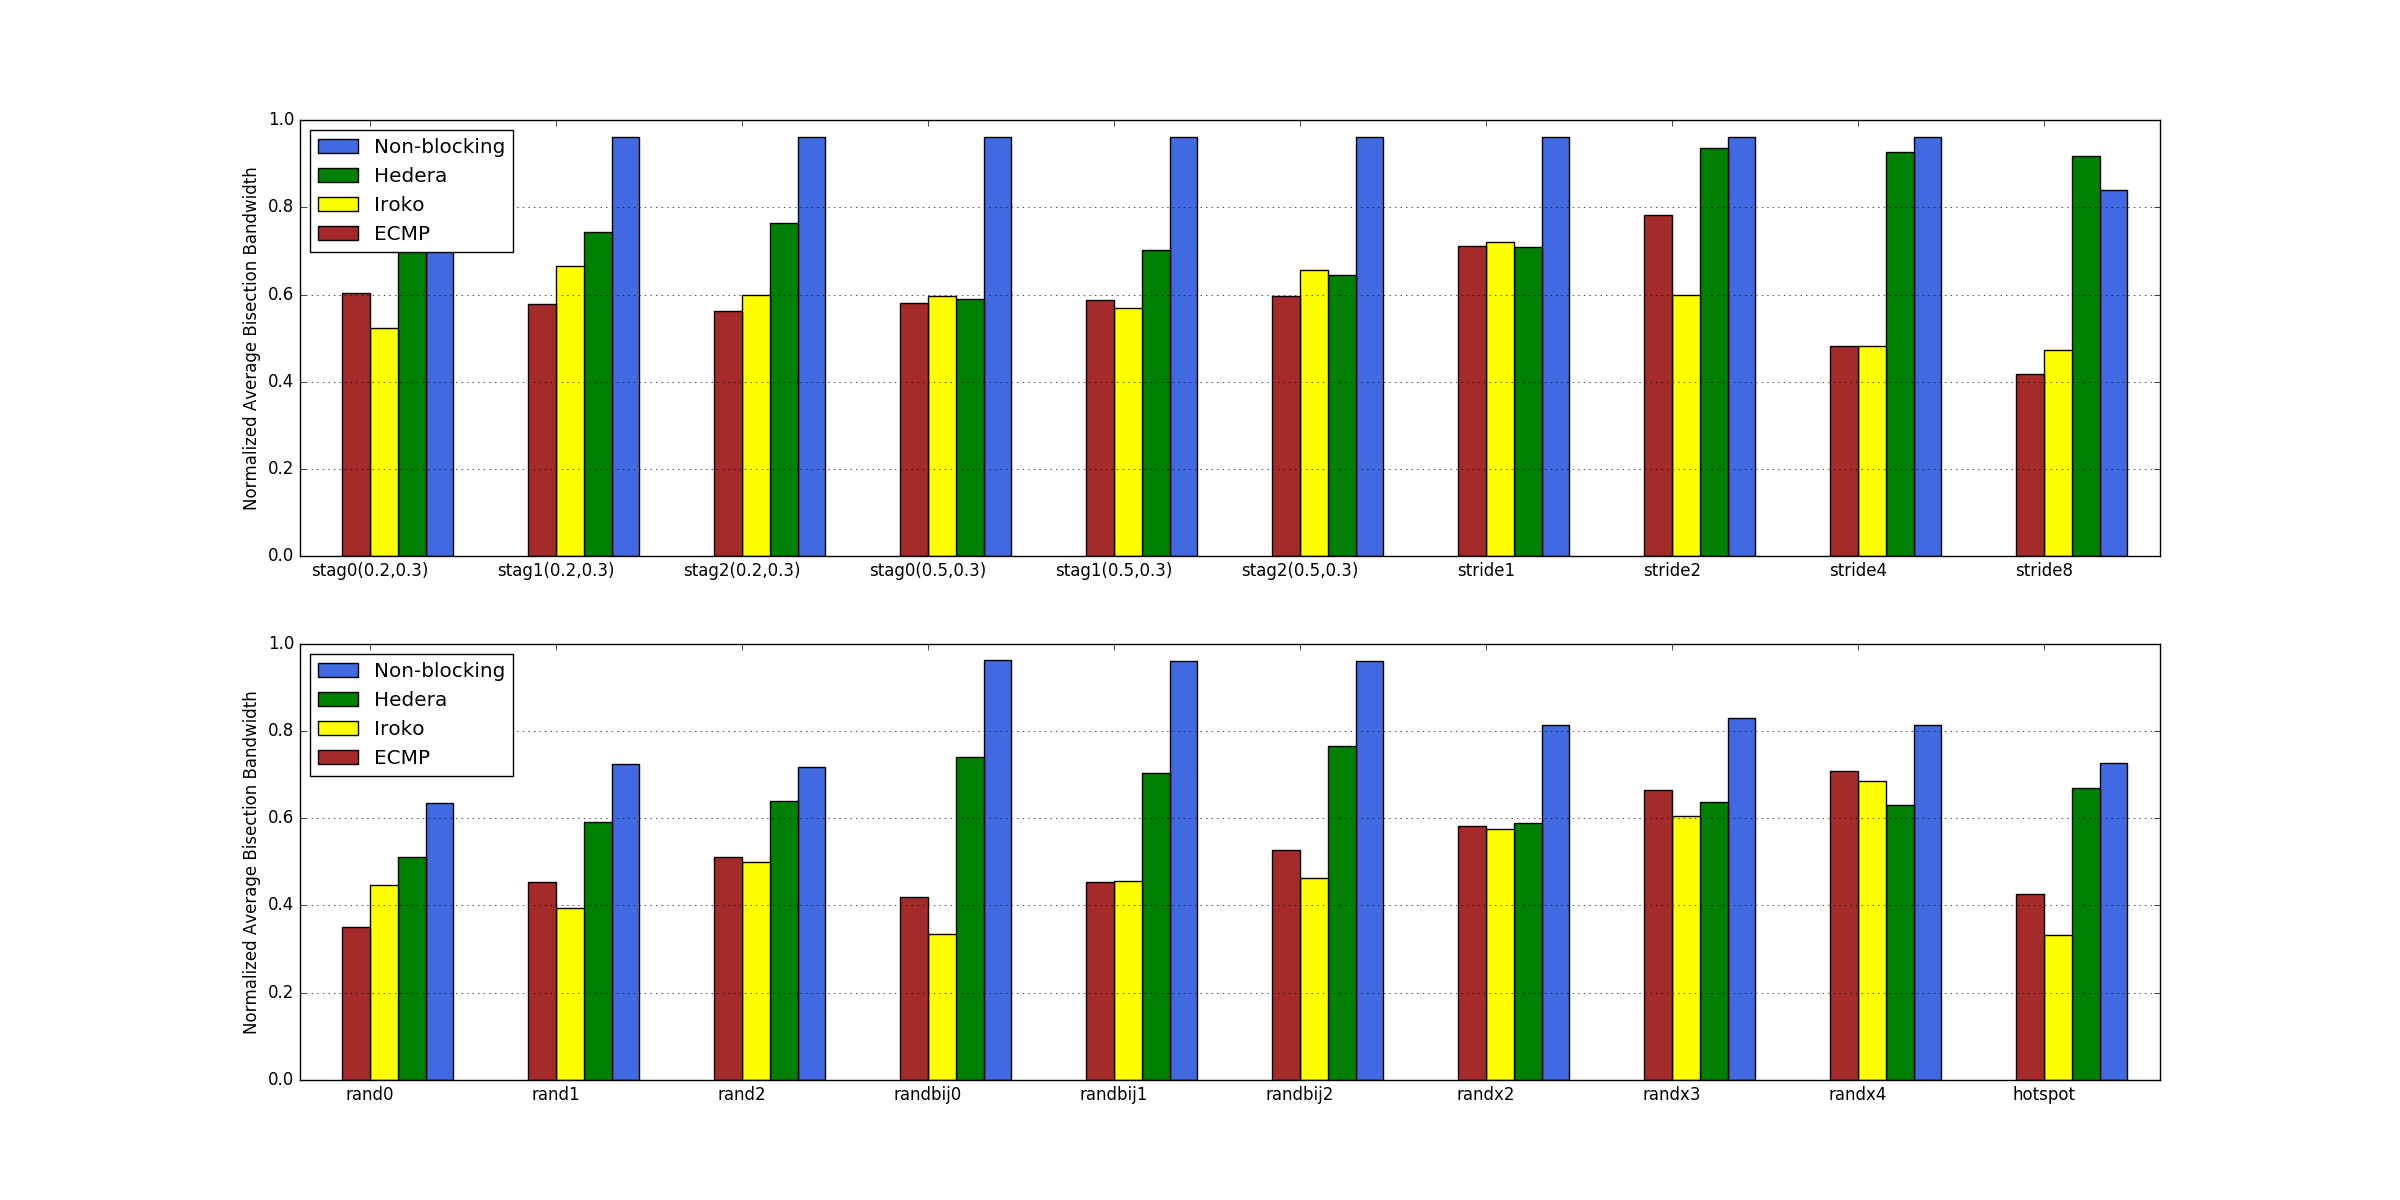
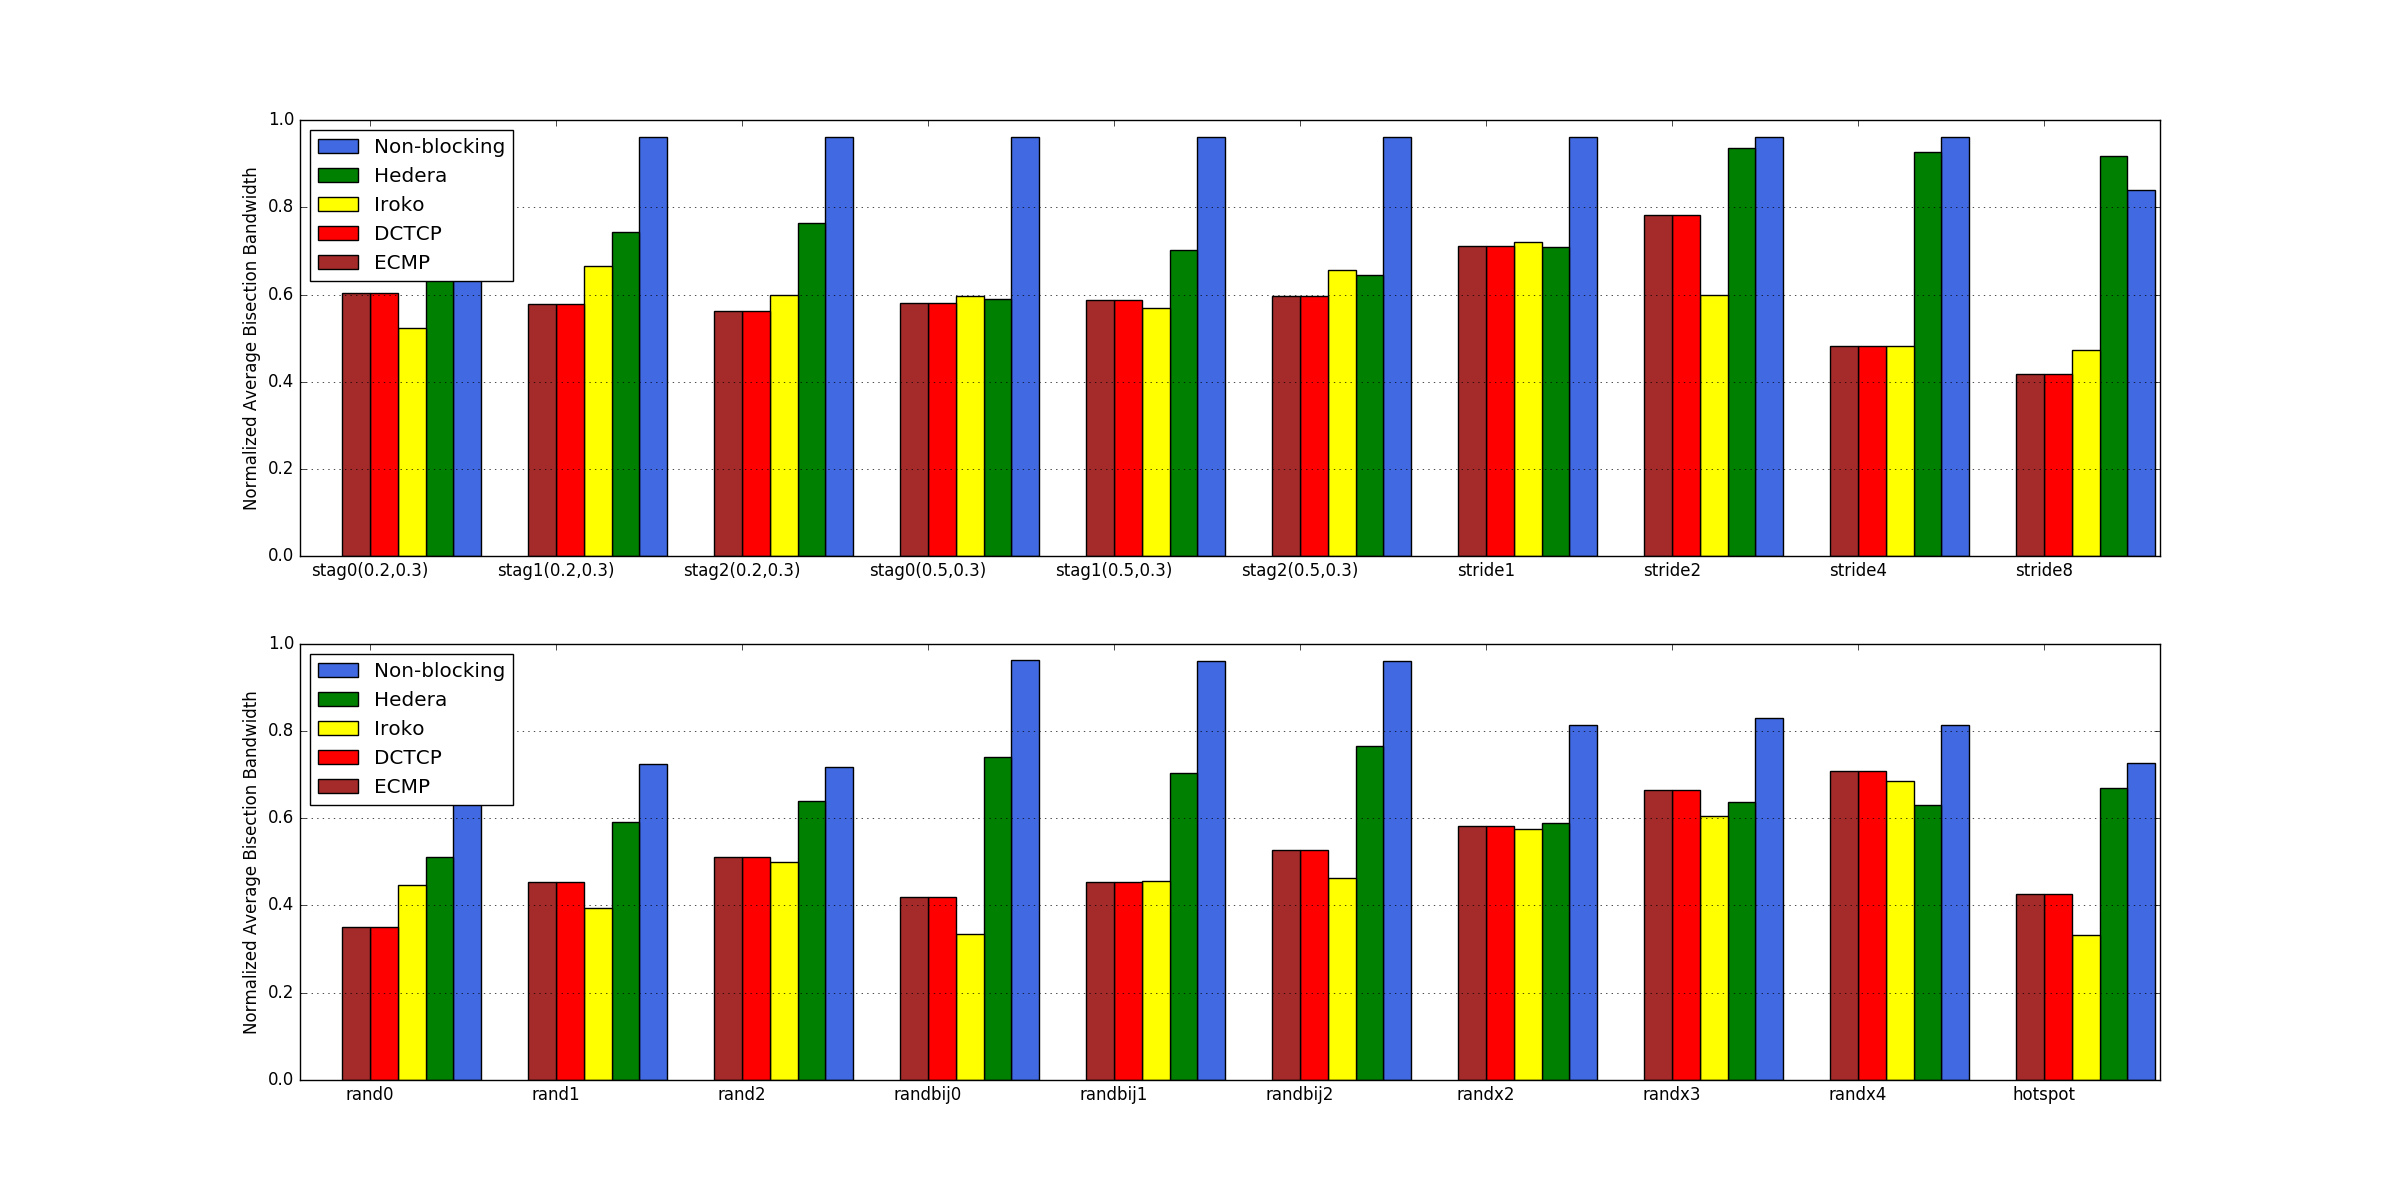
Add DCTCP.

Changed region(s): [[0.125, 0.0925, 0.9062, 0.4625], [0.3125, 0.5242, 0.9062, 0.925], [0.125, 0.6167, 0.2812, 0.925]]

diff --git a/Iroko/iroko.py b/Iroko/iroko.py
@@ -53,6 +53,10 @@ parser.add_argument('--ecmp', dest='ECMP', default=False,
 
 parser.add_argument('--iroko', dest='iroko', default=False,
                     action='store_true', help='Run the experiment with Iroko rate limiting')
+
+parser.add_argument('--dctcp', dest='dctcp', default=False,
+                    action='store_true', help='Run the experiment with DCTCP congestion control')
+
 args = parser.parse_args()
 
 
@@ -65,6 +69,24 @@ def start_tcpprobe():
 
 def stop_tcpprobe():
     os.system("killall -9 cat")
+
+
+def enable_tcp_ecn():
+    Popen("sysctl -w net.ipv4.tcp_ecn=1", shell=True).wait()
+
+
+def disable_tcp_ecn():
+    Popen("sysctl -w net.ipv4.tcp_ecn=0", shell=True).wait()
+
+
+def enable_dctcp():
+    Popen("sysctl -w net.ipv4.tcp_dctcp_enable=1", shell=True).wait()
+    enable_tcp_ecn()
+
+
+def disable_dctcp():
+    Popen("sysctl -w net.ipv4.tcp_dctcp_enable=0", shell=True).wait()
+    disable_tcp_ecn()
 
 
 def trafficGen(args, hosts, net):
@@ -169,11 +191,11 @@ def clean():
     ''' Clean any the running instances of POX '''
 
     p_pox = Popen("ps aux | grep 'pox' | awk '{print $2}'",
-              stdout=PIPE, shell=True)
+                  stdout=PIPE, shell=True)
     p_pox.wait()
     procs = (p_pox.communicate()[0]).split('\n')
     p_ryu = Popen("ps aux | grep 'ryu' | awk '{print $2}'",
-              stdout=PIPE, shell=True)
+                  stdout=PIPE, shell=True)
     p_ryu.wait()
     procs.extend((p_ryu.communicate()[0]).split('\n'))
     for pid in procs:
@@ -187,37 +209,52 @@ def clean():
     Popen('killall python2.7', shell=True).wait()
 
 
-def FatTreeTest(args, controller):
-
-    net, topo = topo_ecmp.createECMPTopo(4, 2)
-    c0 = RemoteController('c0', ip='127.0.0.1', port=6653)
+def FatTreeTest(args, controller=None):
+    net, topo = topo_ecmp.createECMPTopo(pod=4, density=2, cpu=args.cpu, dctcp=args.dctcp)
     ovs_v = 13  # default value
     is_ecmp = True  # default value
-    if controller == "Iroko":
-        makeTerm(c0, cmd="./ryu/bin/ryu-manager --observe-links --ofp-tcp-listen-port 6653 network_monitor.py")
-        # Popen("./ryu/bin/ryu-manager --observe-links --ofp-tcp-listen-port 6653 network_monitor.py", shell=True)
 
-    elif controller == "HController":
-        # makeTerm(c0, cmd="hedera/pox/pox.py HController --topo=ft,4 --routing=ECMP")
-        Popen("hedera/pox/pox.py HController --topo=ft,4 --routing=ECMP", shell=True)
+    if controller is not None:
+        c0 = RemoteController('c0', ip='127.0.0.1', port=6653)
+        if controller == "Iroko":
+            makeTerm(c0, cmd="./ryu/bin/ryu-manager --observe-links --ofp-tcp-listen-port 6653 network_monitor.py")
+            # Popen("./ryu/bin/ryu-manager --observe-links --ofp-tcp-listen-port 6653 network_monitor.py", shell=True)
+        elif controller == "HController":
+            c0 = RemoteController('c0', ip='127.0.0.1', port=6653)
+            # makeTerm(c0, cmd="hedera/pox/pox.py HController --topo=ft,4 --routing=ECMP")
+            Popen("hedera/pox/pox.py HController --topo=ft,4 --routing=ECMP", shell=True)
+            ovs_v = 10
+            is_ecmp = False
+        net.addController(c0)
 
-        ovs_v = 10
-        is_ecmp = False
-    net.addController(c0)
-    sleep(2)
     net.start()
-    sleep(5)
+    sleep(2)
     topo_ecmp.configureTopo(net, topo, ovs_v, is_ecmp)
     topo_ecmp.connect_controller(net, topo, c0)
-    # wait for the switches to connect to the controller
     info('** Waiting for switches to connect to the controller\n')
     sleep(2)
     hosts = net.hosts
     trafficGen(args, hosts, net)
+    CLI(net)
     net.stop()
 
 
-def FatTreeNet(k=4, bw=10, cpu=-1, queue=100, controller='HController'):
+def NonBlockingTest(args):
+
+    net, topo = topo_non_block.createNonBlockTopo(pod=4, density=2, cpu=args.cpu)
+    net.start()
+    topo_non_block.configureTopo(net, topo)
+
+    info('** Waiting for switches to connect to the controller\n')
+    sleep(2)
+
+    hosts = net.hosts
+    trafficGen(args, hosts, net)
+
+    net.stop()
+
+
+def HederaNet(k=4, bw=10, cpu=-1, queue=100, controller='HController'):
     ''' Create a Fat-Tree network '''
 
     info('*** Creating the topology')
@@ -236,8 +273,8 @@ def HederaTest(args):
     c0 = RemoteController('c0', ip='127.0.0.1', port=6653)
     # makeTerm(c0, cmd="hedera/pox/pox.py HController --topo=ft,4 --routing=ECMP")
     Popen("hedera/pox/pox.py HController --topo=ft,4 --routing=ECMP", shell=True)
-    net = FatTreeNet(k=4, cpu=args.cpu, bw=10, queue=MAX_QUEUE,
-                     controller=None)
+    net = HederaNet(k=4, cpu=args.cpu, bw=10, queue=MAX_QUEUE,
+                    controller=None)
     net.addController(c0)
     net.start()
     # wait for the switches to connect to the controller
@@ -254,21 +291,6 @@ def HederaTest(args):
     net.stop()
 
 
-def NonBlockingTest(args):
-
-    net, topo = topo_non_block.createNonBlockTopo(4, 2)
-    net.start()
-    topo_non_block.configureTopo(net, topo)
-
-    info('** Waiting for switches to connect to the controller\n')
-    sleep(2)
-
-    hosts = net.hosts
-    trafficGen(args, hosts, net)
-
-    net.stop()
-
-
 if __name__ == '__main__':
     clean()
     setLogLevel('info')
@@ -279,7 +301,6 @@ if __name__ == '__main__':
     if os.getuid() != 0:
         logging.debug("You are NOT root")
         exit(1)
-
     if args.nonblocking:
         NonBlockingTest(args)
     elif args.ECMP:

diff --git a/Iroko/plot_rate.py b/Iroko/plot_rate.py
@@ -69,7 +69,7 @@ def plot_results(args):
     num_t = 20
     n_t = num_t / num_plot
 
-    bb = {'nonblocking': [], 'hedera': [], 'iroko': [], 'ecmp': []}
+    bb = {'nonblocking': [], 'hedera': [], 'iroko': [], 'dctcp': [], 'ecmp': []}
 
     # sw = '4h1h1'
     sw = '1001'
@@ -77,7 +77,7 @@ def plot_results(args):
         print("Nonblocking:", t)
         input_file = args.files + '/nonblocking/%s/rate.txt' % t
         vals = get_bisection_bw(input_file, sw)
-        print (vals)
+        print(vals)
         bb['nonblocking'].append(vals / fbb)
 
     # sw = '[0-3]h[0-1]h1'
@@ -86,14 +86,21 @@ def plot_results(args):
         print("ECMP:", t)
         input_file = args.files + '/fattree-ecmp/%s/rate.txt' % t
         vals = get_bisection_bw(input_file, sw)
-        print (vals)
+        print(vals)
         bb['ecmp'].append(vals / fbb / 2)
+
+    for t in traffics:
+        print("DCTCP:", t)
+        input_file = args.files + '/fattree-dctcp/%s/rate.txt' % t
+        vals = get_bisection_bw(input_file, sw)
+        print(vals)
+        bb['dctcp'].append(vals / fbb / 2)
 
     for t in traffics:
         print("Iroko:", t)
         input_file = args.files + '/fattree-iroko/%s/rate.txt' % t
         vals = get_bisection_bw(input_file, sw)
-        print (vals)
+        print(vals)
         bb['iroko'].append(vals / fbb / 2)
 
     sw = '[0-3]h[0-1]h1'
@@ -101,7 +108,7 @@ def plot_results(args):
         print("Hedera:", t)
         input_file = args.files + '/fattree-hedera/%s/rate.txt' % t
         vals = get_bisection_bw(input_file, sw)
-        print (vals)
+        print(vals)
         bb['hedera'].append(vals / fbb / 2)
 
     ind = np.arange(n_t)
@@ -121,19 +128,22 @@ def plot_results(args):
         plt.xticks(ind + 2.5 * width, labels[i * n_t:(i + 1) * n_t])
 
         # Nonblocking
-        p1 = plt.bar(ind + 4.5 * width, bb['nonblocking'][i * n_t:(i + 1) * n_t], width=width,
+        p1 = plt.bar(ind + 5.5 * width, bb['nonblocking'][i * n_t:(i + 1) * n_t], width=width,
                      color='royalblue')
 
         # FatTree + Hedera
-        p2 = plt.bar(ind + 3.5 * width, bb['hedera'][i * n_t:(i + 1) * n_t], width=width, color='green')
+        p2 = plt.bar(ind + 4.5 * width, bb['hedera'][i * n_t:(i + 1) * n_t], width=width, color='green')
 
         # FatTree + Iroko
-        p3 = plt.bar(ind + 2.5 * width, bb['iroko'][i * n_t:(i + 1) * n_t], width=width, color='yellow')
+        p3 = plt.bar(ind + 3.5 * width, bb['iroko'][i * n_t:(i + 1) * n_t], width=width, color='yellow')
 
         # FatTree + ECMP
-        p4 = plt.bar(ind + 1.5 * width, bb['ecmp'][i * n_t:(i + 1) * n_t], width=width, color='brown')
+        p4 = plt.bar(ind + 2.5 * width, bb['ecmp'][i * n_t:(i + 1) * n_t], width=width, color='red')
 
-        plt.legend([p1[0], p2[0], p3[0], p4[0]], ['Non-blocking', 'Hedera', 'Iroko', 'ECMP'], loc='upper left')
+        # FatTree + ECMP
+        p5 = plt.bar(ind + 1.5 * width, bb['ecmp'][i * n_t:(i + 1) * n_t], width=width, color='brown')
+
+        plt.legend([p1[0], p2[0], p3[0], p4[0], p5[0]], ['Non-blocking', 'Hedera', 'Iroko', 'DCTCP', 'ECMP'], loc='upper left')
 
         plt.savefig(args.out)
 

diff --git a/Iroko/topo_ecmp.py b/Iroko/topo_ecmp.py
@@ -94,7 +94,7 @@ class Fattree(Topo):
                 PREFIX = "h00"
             self.HostList.append(self.addHost(PREFIX + str(i), cpu=1.0 / NUMBER))
 
-    def createLinks(self, bw_c2a=10, bw_a2e=10, bw_e2h=10):
+    def createLinks(self, bw_c2a=10, bw_a2e=10, bw_e2h=10, dctcp=False):
         """
             Add network links.
         """
@@ -106,7 +106,7 @@ class Fattree(Topo):
                     self.addLink(
                         self.CoreSwitchList[i * end + j],
                         self.AggSwitchList[x + i],
-                        bw=bw_c2a, max_queue_size=MAX_QUEUE)   # use_htb=False
+                        bw=bw_c2a, max_queue_size=MAX_QUEUE, enable_ecn=dctcp)   # use_htb=False
 
         # Agg to Edge
         for x in range(0, self.iAggLayerSwitch, end):
@@ -114,7 +114,7 @@ class Fattree(Topo):
                 for j in range(0, end):
                     self.addLink(
                         self.AggSwitchList[x + i], self.EdgeSwitchList[x + j],
-                        bw=bw_a2e, max_queue_size=MAX_QUEUE)   # use_htb=False
+                        bw=bw_a2e, max_queue_size=MAX_QUEUE, enable_ecn=dctcp)   # use_htb=False
 
         # Edge to Host
         for x in range(0, self.iEdgeLayerSwitch):
@@ -122,7 +122,7 @@ class Fattree(Topo):
                 self.addLink(
                     self.EdgeSwitchList[x],
                     self.HostList[self.density * x + i],
-                    bw=bw_e2h, max_queue_size=MAX_QUEUE)   # use_htb=False
+                    bw=bw_e2h, max_queue_size=MAX_QUEUE, enable_ecn=dctcp)   # use_htb=False
 
     def set_ovs_protocol(self, ovs_v):
         """
@@ -303,7 +303,7 @@ def connect_controller(net, topo, controller):
         # host.setIP("10.%d.0.%d" % (i, j))
 
 
-def createECMPTopo(pod, density, ip="127.0.0.1", port=6653, bw_c2a=10, bw_a2e=10, bw_e2h=10):
+def createECMPTopo(pod, density, ip="127.0.0.1", port=6653, cpu=-1, bw_c2a=10, bw_a2e=10, bw_e2h=10, dctcp=False):
     """
         Create network topology and run the Mininet.
     """
@@ -311,13 +311,13 @@ def createECMPTopo(pod, density, ip="127.0.0.1", port=6653, bw_c2a=10, bw_a2e=10
     # Create Topo.
     topo = Fattree(pod)
     topo.createNodes()
-    topo.createLinks(bw_c2a=bw_c2a, bw_a2e=bw_a2e, bw_e2h=bw_e2h)
-
+    topo.createLinks(bw_c2a=bw_c2a, bw_a2e=bw_a2e, bw_e2h=bw_e2h, dctcp=dctcp)
     # Start Mininet
     # CONTROLLER_IP = ip
     #CONTROLLER_PORT = port
-    link = custom(TCLink, max_queue_size=MAX_QUEUE)
-    net = Mininet(topo=topo, link=link, controller=None, autoSetMacs=True)
+    link = custom(TCLink, max_queue_size=MAX_QUEUE, enable_ecn=dctcp)
+    host = custom(CPULimitedHost, cpu=cpu)
+    net = Mininet(topo=topo, host=host, link=link, controller=None, autoSetMacs=True)
     #net.addController('controller', controller=RemoteController, ip=CONTROLLER_IP, port=CONTROLLER_PORT)
 
     # net.start()

diff --git a/Iroko/topo_non_block.py b/Iroko/topo_non_block.py
@@ -22,6 +22,8 @@ from mininet.cli import CLI
 from mininet.log import setLogLevel
 from mininet.link import Link, Intf, TCLink
 from mininet.topo import Topo
+from mininet.node import OVSKernelSwitch, CPULimitedHost
+from mininet.util import custom
 
 import os
 import time
@@ -31,6 +33,7 @@ parentdir = os.path.dirname(os.path.dirname(os.path.abspath(__file__)))
 sys.path.insert(0, parentdir)
 #import iperf_peers
 MAX_QUEUE = 1000
+
 
 class NonBlocking(Topo):
     """
@@ -113,6 +116,7 @@ def set_host_ip(net, topo):
             j = 1
             i += 1
 
+
 def install_proactive(net, topo):
     """
             Install proactive flow entries for the switch.
@@ -137,6 +141,7 @@ def install_proactive(net, topo):
                 j = 1
                 i += 1
 
+
 def configureTopo(net, topo):
     # Set OVS's protocol as OF13.
     topo.set_ovs_protocol_13()
@@ -145,7 +150,8 @@ def configureTopo(net, topo):
     # Install proactive flow entries
     install_proactive(net, topo)
 
-def createNonBlockTopo(pod, ip="172.18.232.60", port=6653, bw_h2c=10):
+
+def createNonBlockTopo(pod, ip="172.18.232.60", cpu=-1, port=6653, bw_h2c=10):
     """
             Firstly, start up Mininet;
             secondly, generate traffics and test the performance of the network.
@@ -158,8 +164,9 @@ def createNonBlockTopo(pod, ip="172.18.232.60", port=6653, bw_h2c=10):
     # Start Mininet
     CONTROLLER_IP = ip
     CONTROLLER_PORT = port
+    host = custom(CPULimitedHost, cpu=cpu)
     net = Mininet(topo=topo, link=TCLink, controller=RemoteController, autoSetMacs=True)
     #net.addController('controller', controller=RemoteController, ip=CONTROLLER_IP, port=CONTROLLER_PORT)
-    #net.start()
+    # net.start()
 
     return net, topo
